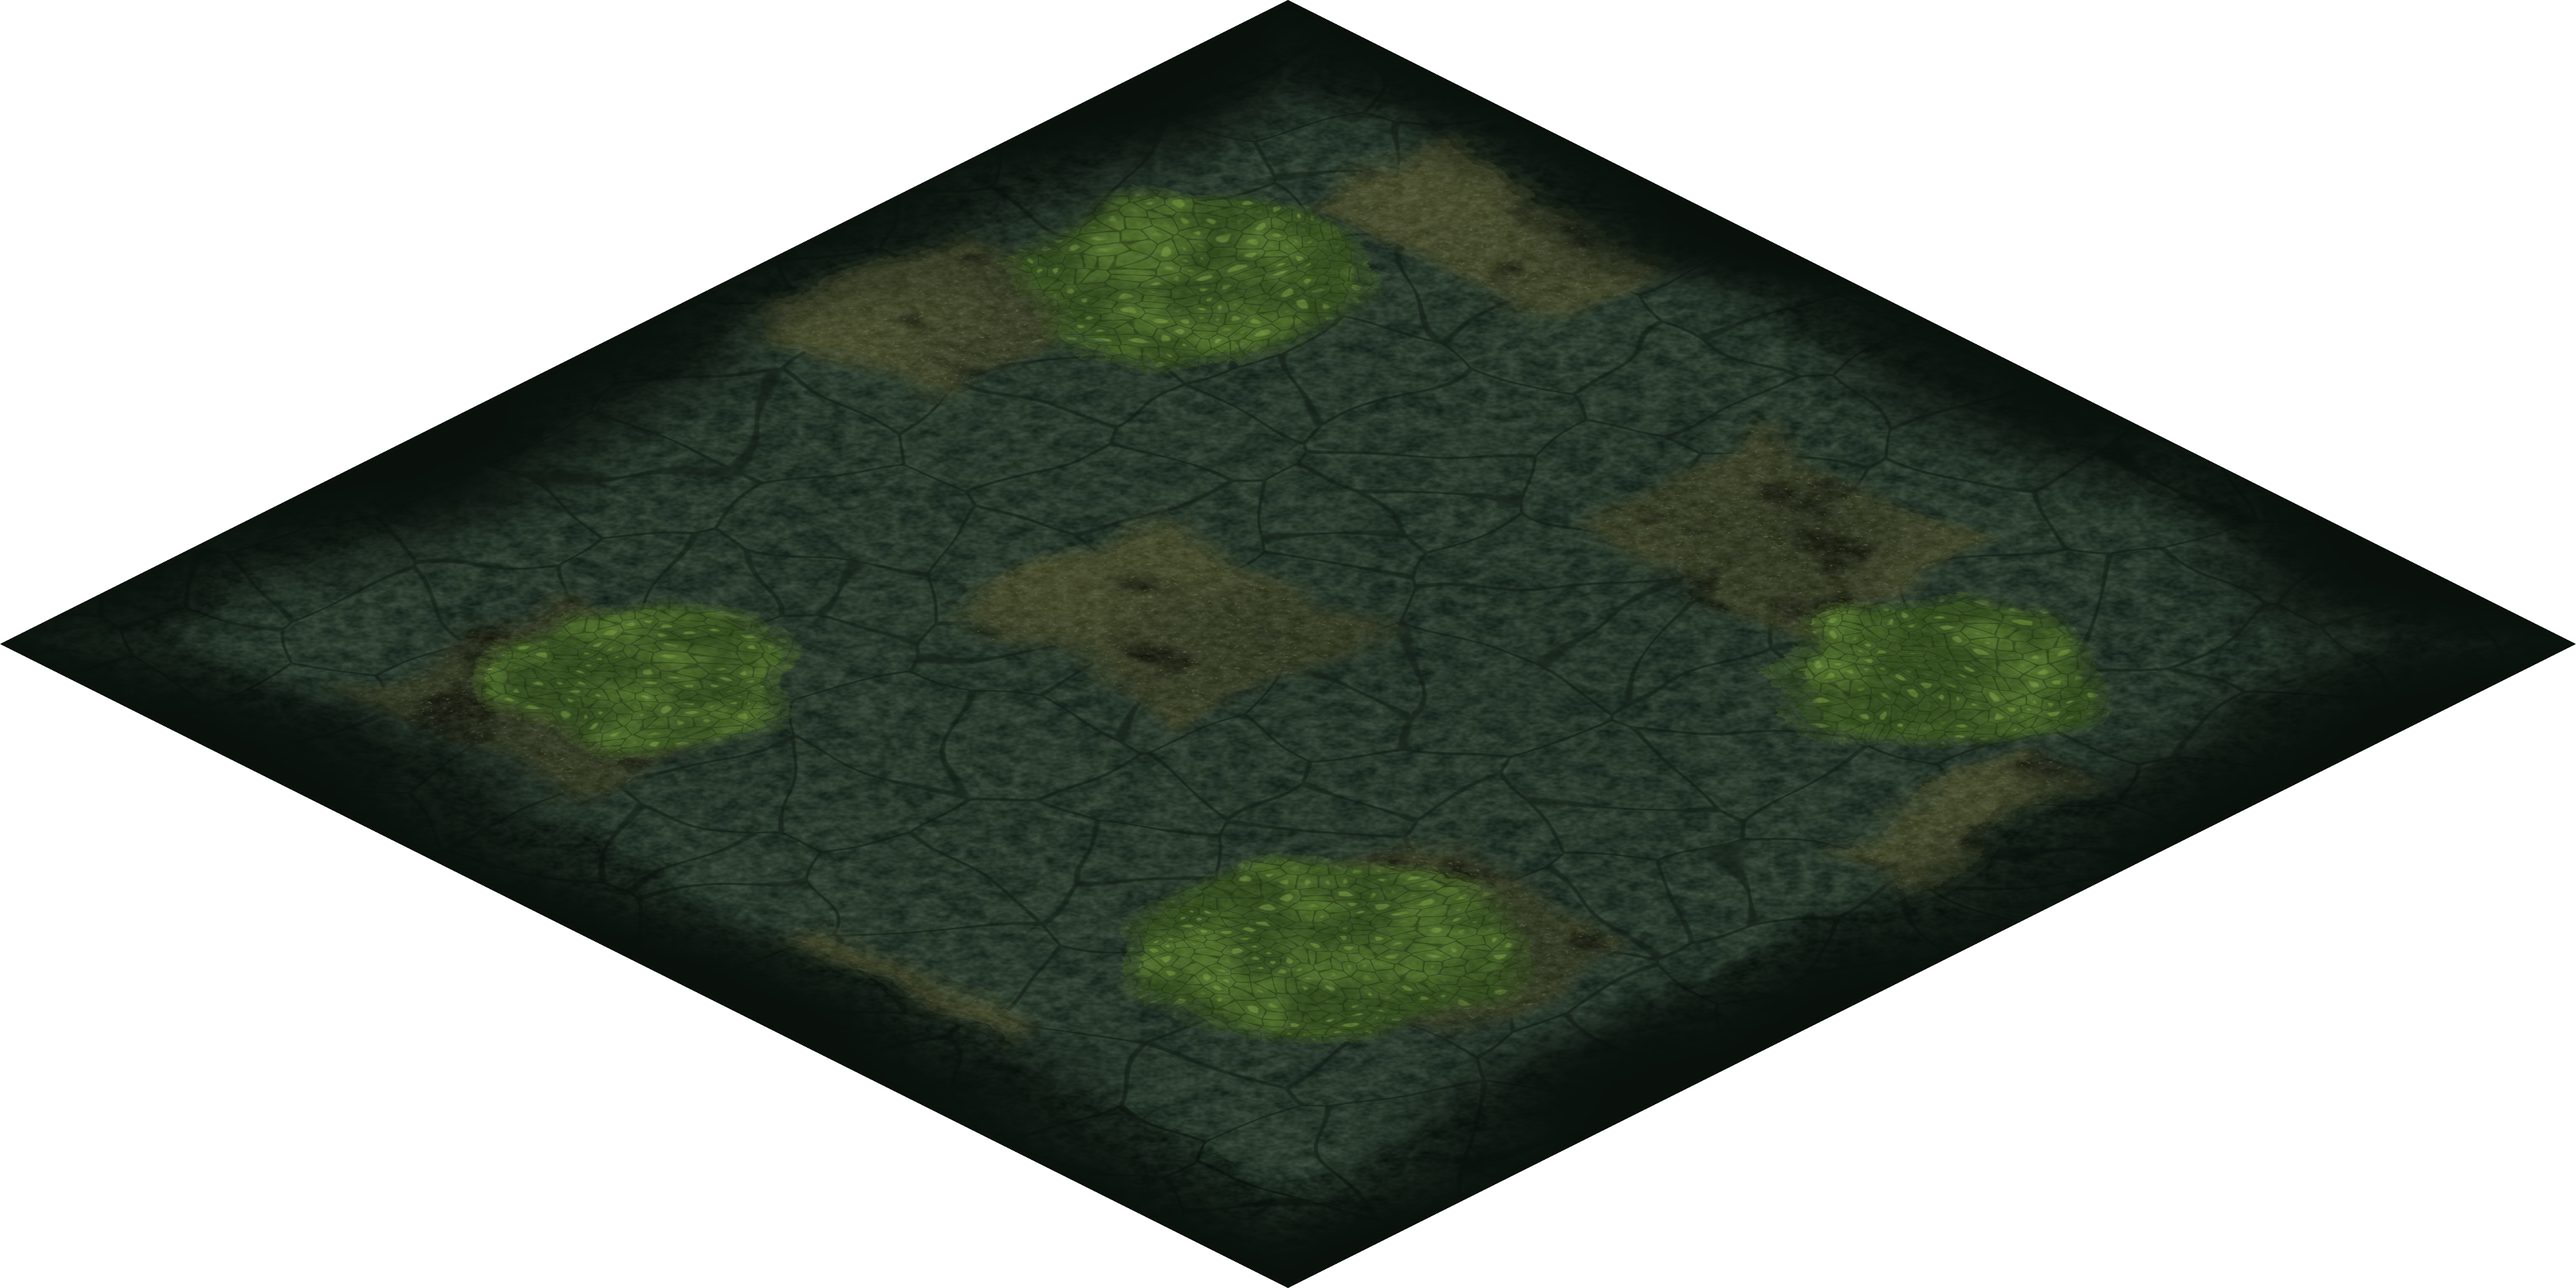
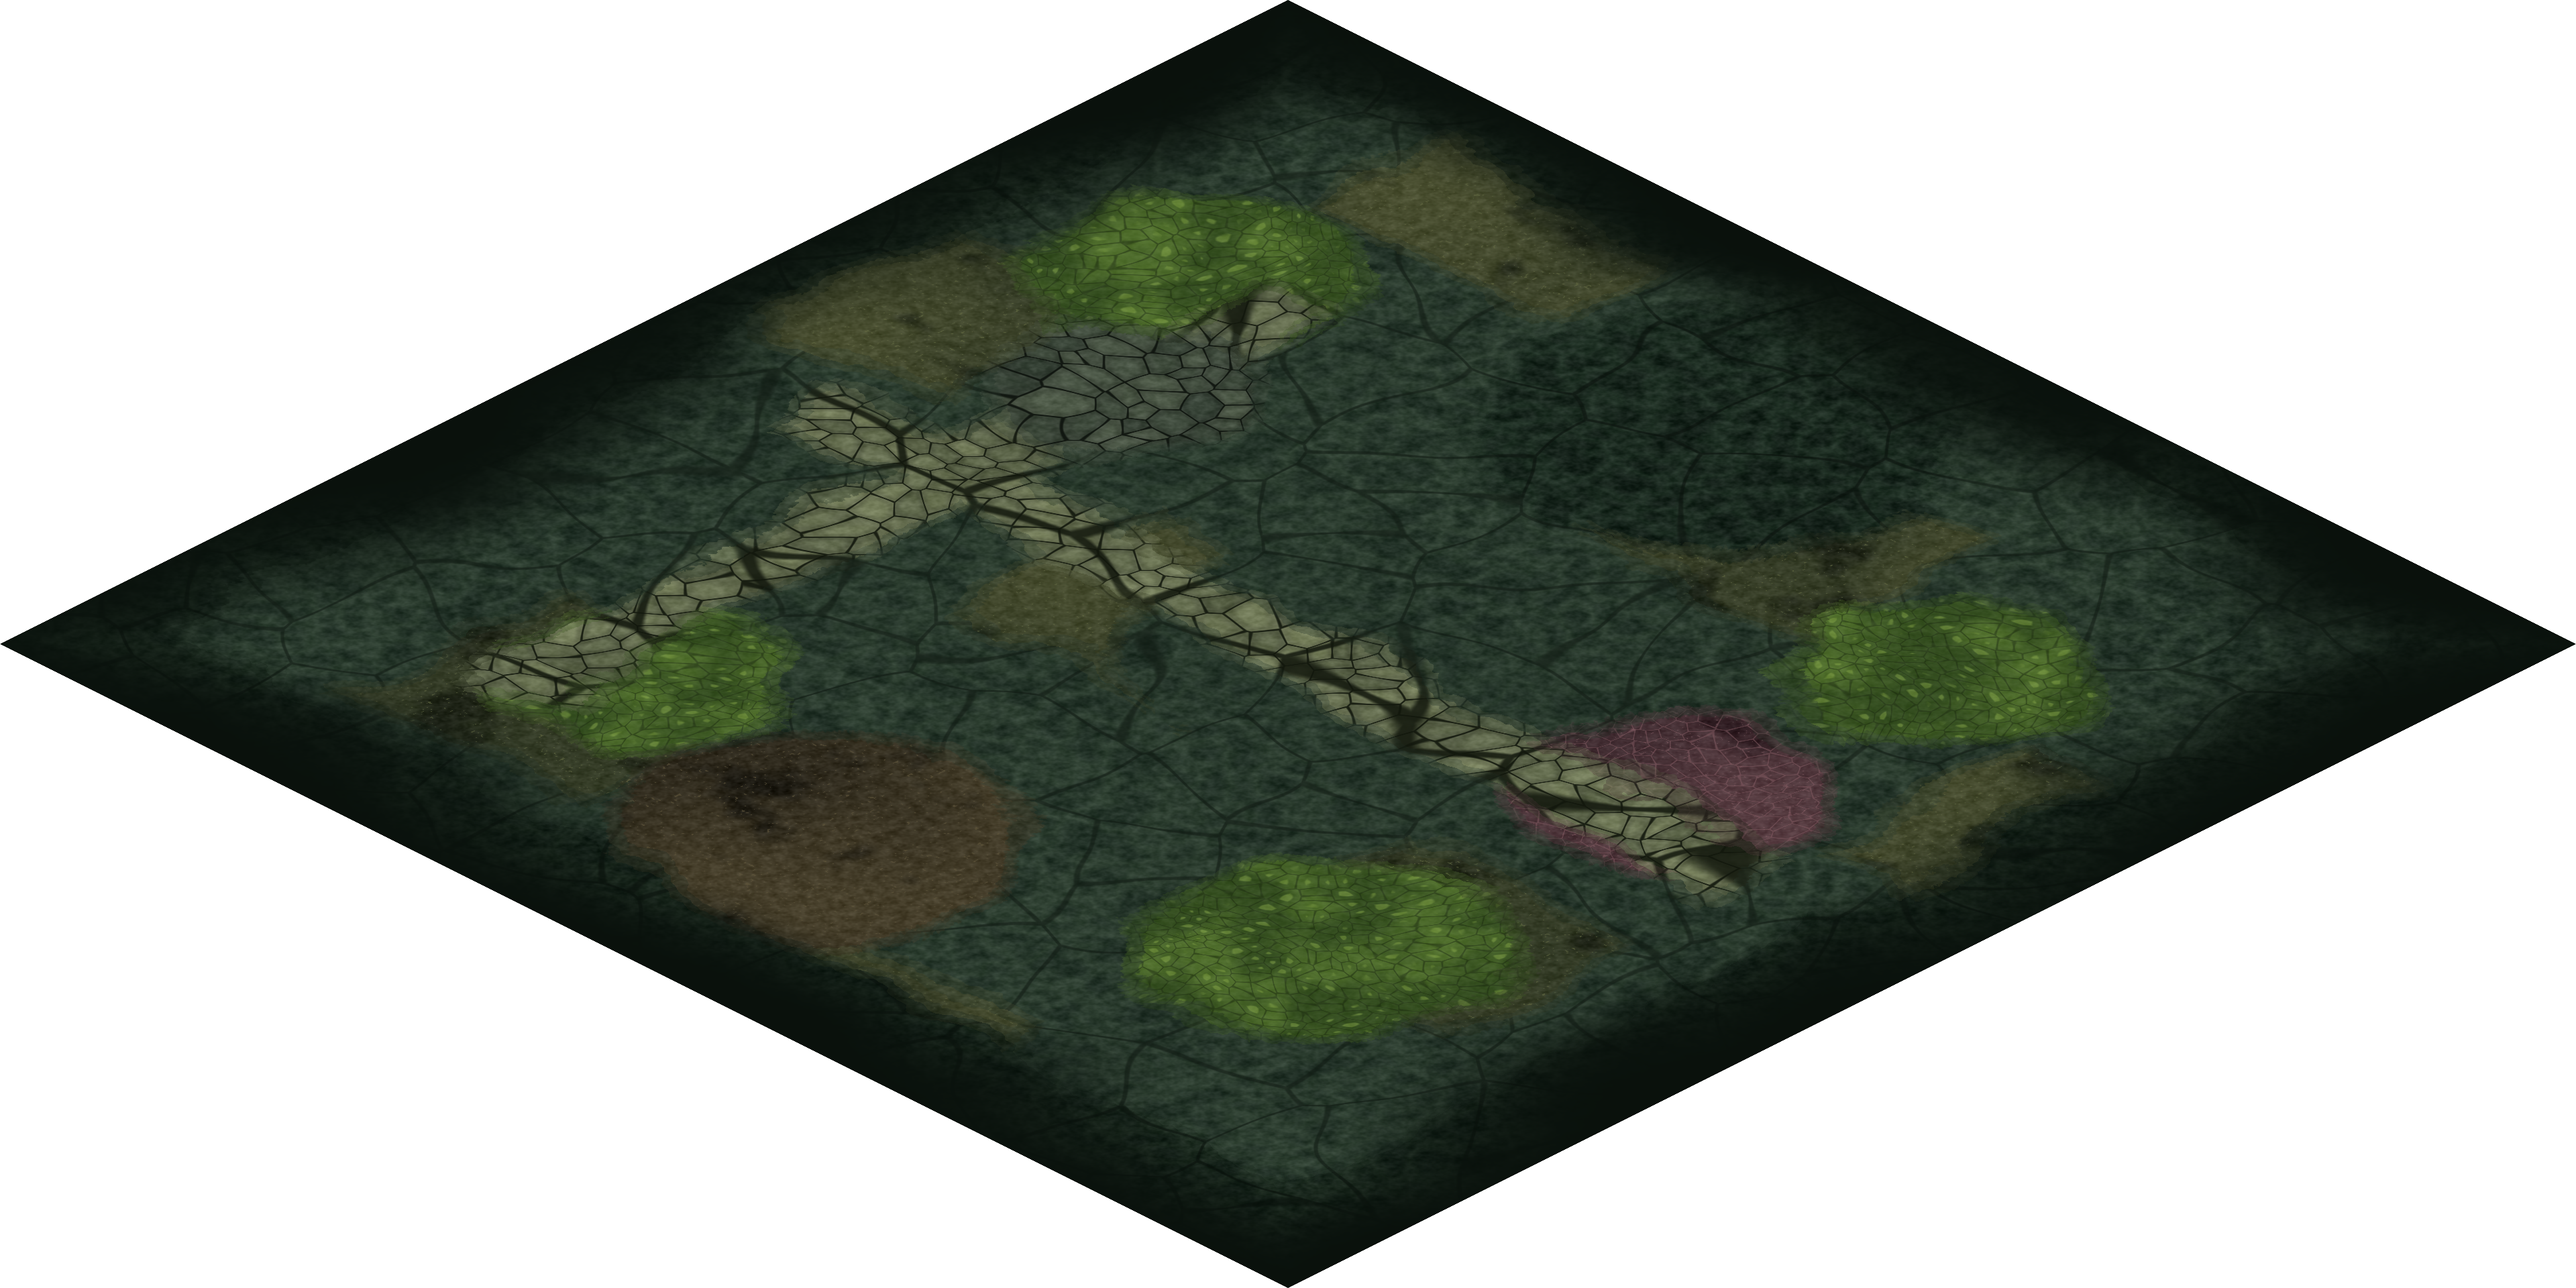
Add level design for Molor and let ground trails cross the start clearing (PLAN-054 F1)

Changed region(s): [[0.1875, 0.2188, 0.7188, 0.7188], [0.25, 0.5938, 0.4062, 0.75], [0.625, 0.3438, 0.75, 0.4375]]

diff --git a/.atena/vault/drafts/PLAN-054-direcao-de-chao-e-level-design-coeso-2026-10-02.md b/.atena/vault/drafts/PLAN-054-direcao-de-chao-e-level-design-coeso-2026-10-02.md
@@ -75,3 +75,4 @@ ART (atlas de chão por bioma), MEC-035 (estende o layout por dados), ART-012 (p
 - Dagruve e Docas: aprovados. Sete biomas restantes: chão assado implementado (SPEC-116), aguardando aprovação visual. Próximo: F1 (zonas, eixo de caminho, landmarks, materiais em dados) e F4 (bot e questionário).
 - F1 em Shedaklah (molde): `data/level_design.json` (novo) guarda por bioma o `chao` (clareira de início, dominância fungo a oeste × limo a leste, regiões: bosque, poço de lodo, esporos; trilhas norte-sul e leste-oeste; praça da estrutura) e os `props` por zonas (54 props, mesmo formato de `scenery.json`). `SceneryLayout.stage_spec` usa `scenery.json` e, na falta de props, `level_design.json`. `tools/bake_ground.gd` aplica o `chao` sobre o layout só onde não é água nem margem. Teste: `tests/test_level_design.gd` (props fora de água e margem, determinismo, tipos com dimensões, sem sobreposição). Captura geral: `tools/capture_ground_spots.tscn` gera `<bioma>_<tag>_overview.png`.
 - Próximos biomas pela mesma receita: Molor, Durão, Feng-tu, Shendilavri, Goranthis, Pilares (um por vez, com aprovação).
+- F1 em Molor: calçada de detrito (leste-oeste e norte-sul passando pela estrutura), praça da estrutura, gruta de estalactites ao norte, lixão a sul, ninho de parasitas a leste, bolsões de lodo existentes cercados de bolhas e quatro cantos com bolhas; 111 props em zonas (antes ~130 espalhados). Nenhum prop em parede (a parede de Molor começa em ~55,5 nos lados altos). O ajuste "chão não sobrepõe parede/fundação/encosta" vale para todos os biomas. Falta: Durão, Feng-tu, Shendilavri, Goranthis, Pilares.
